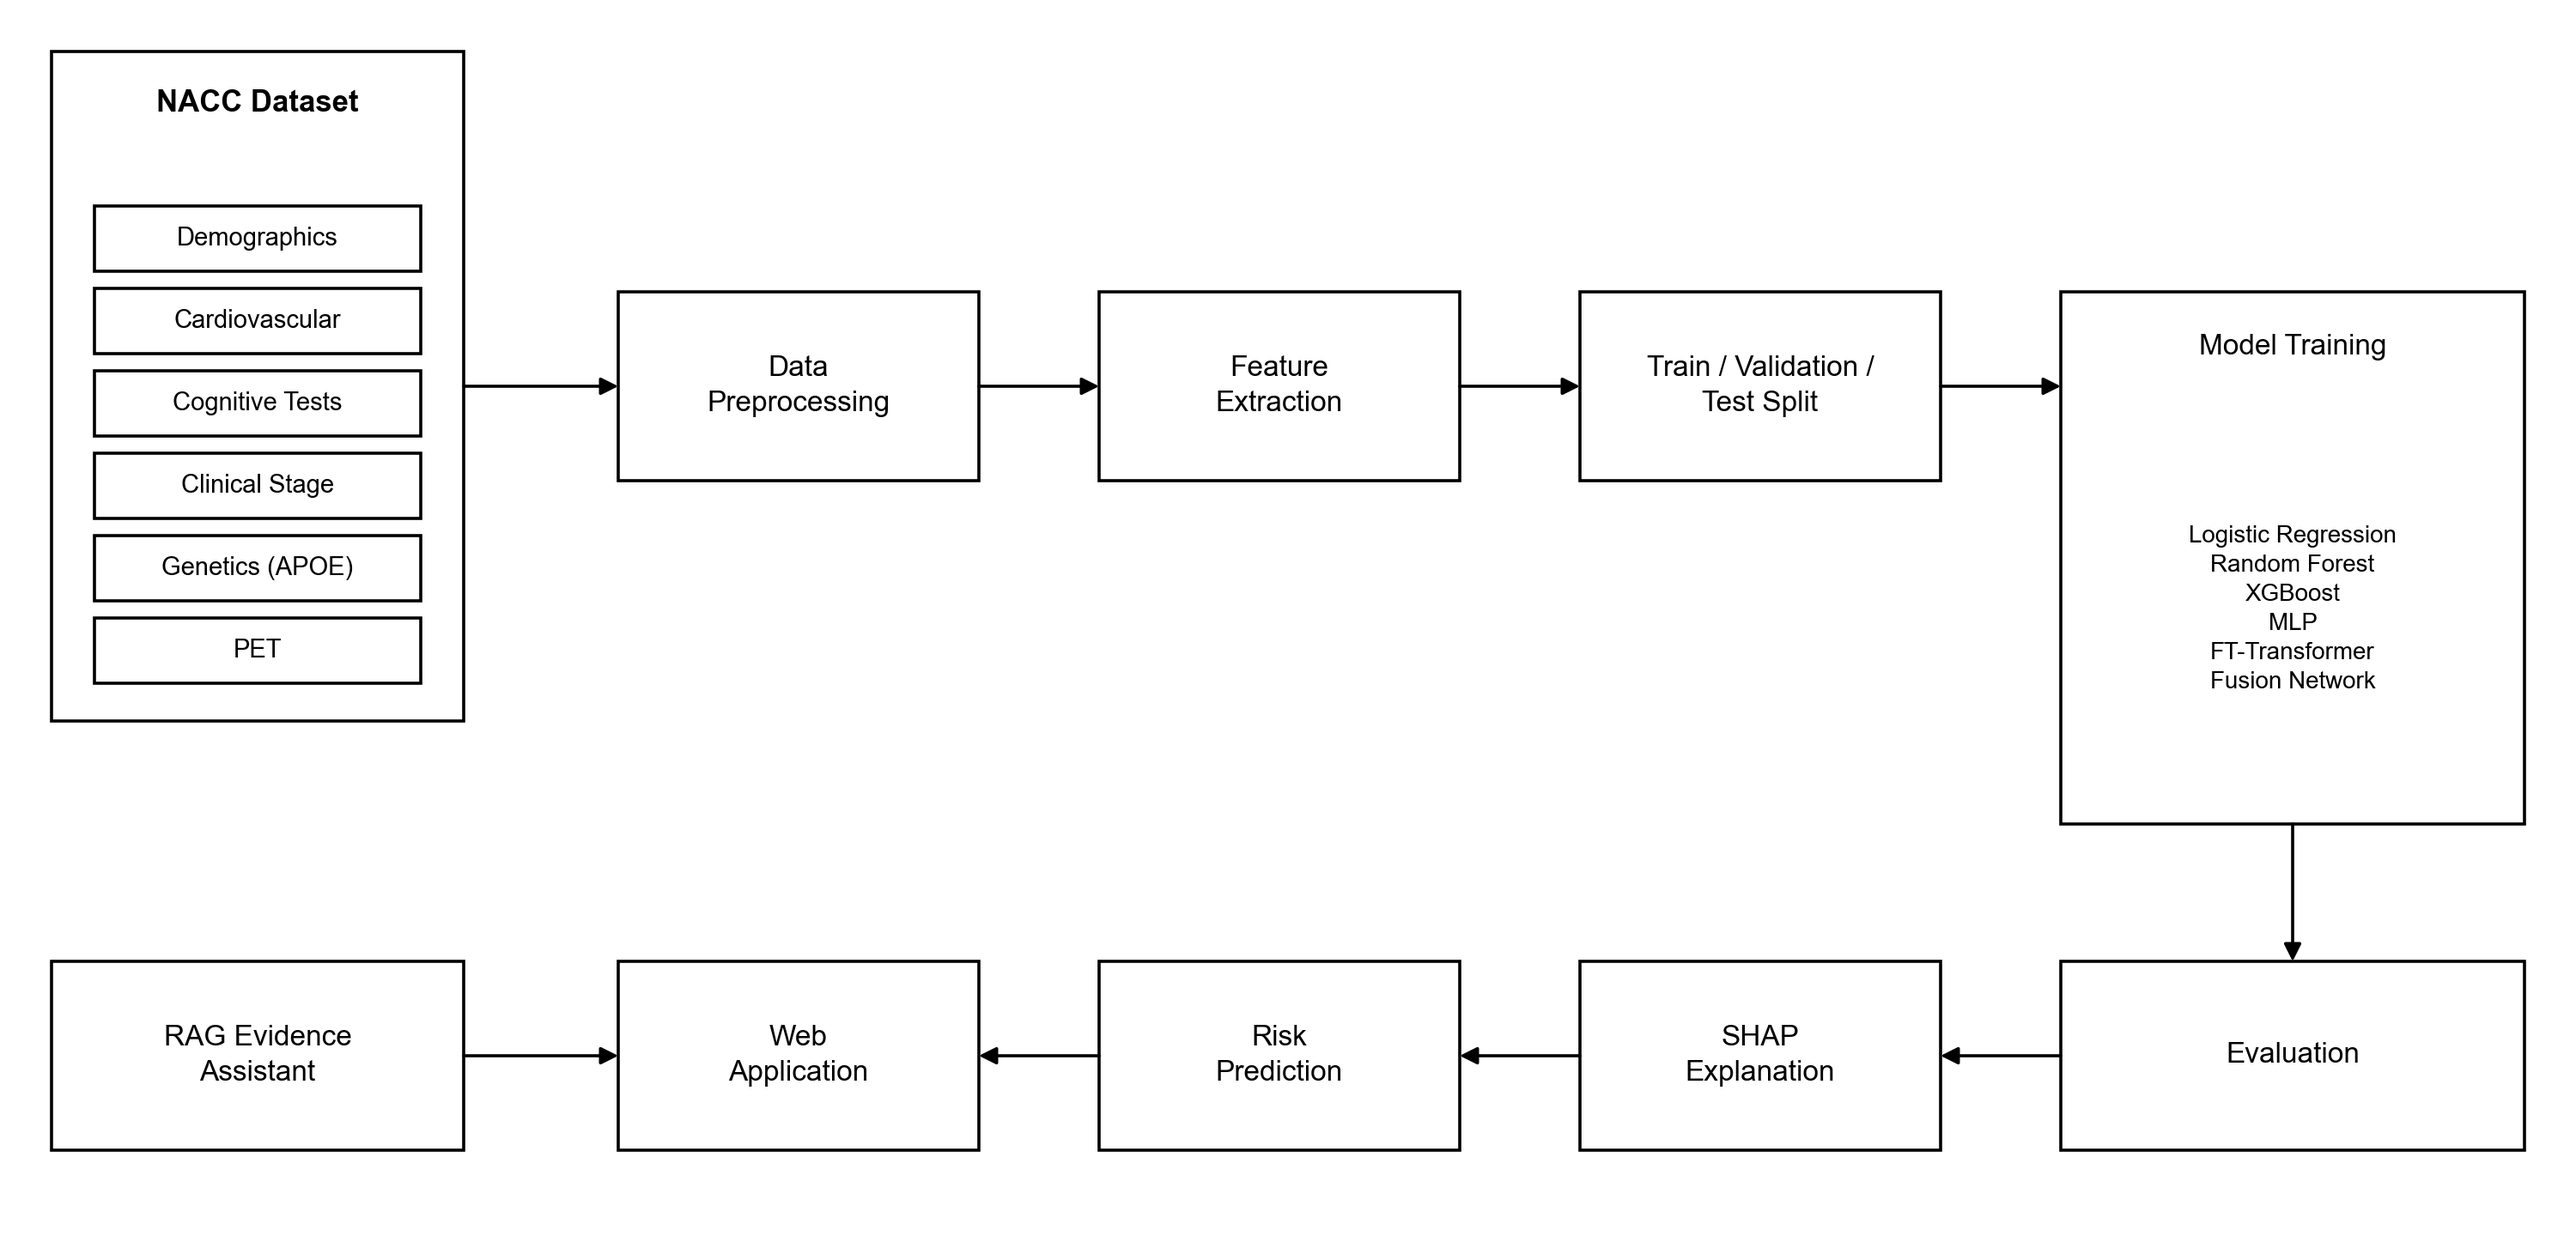
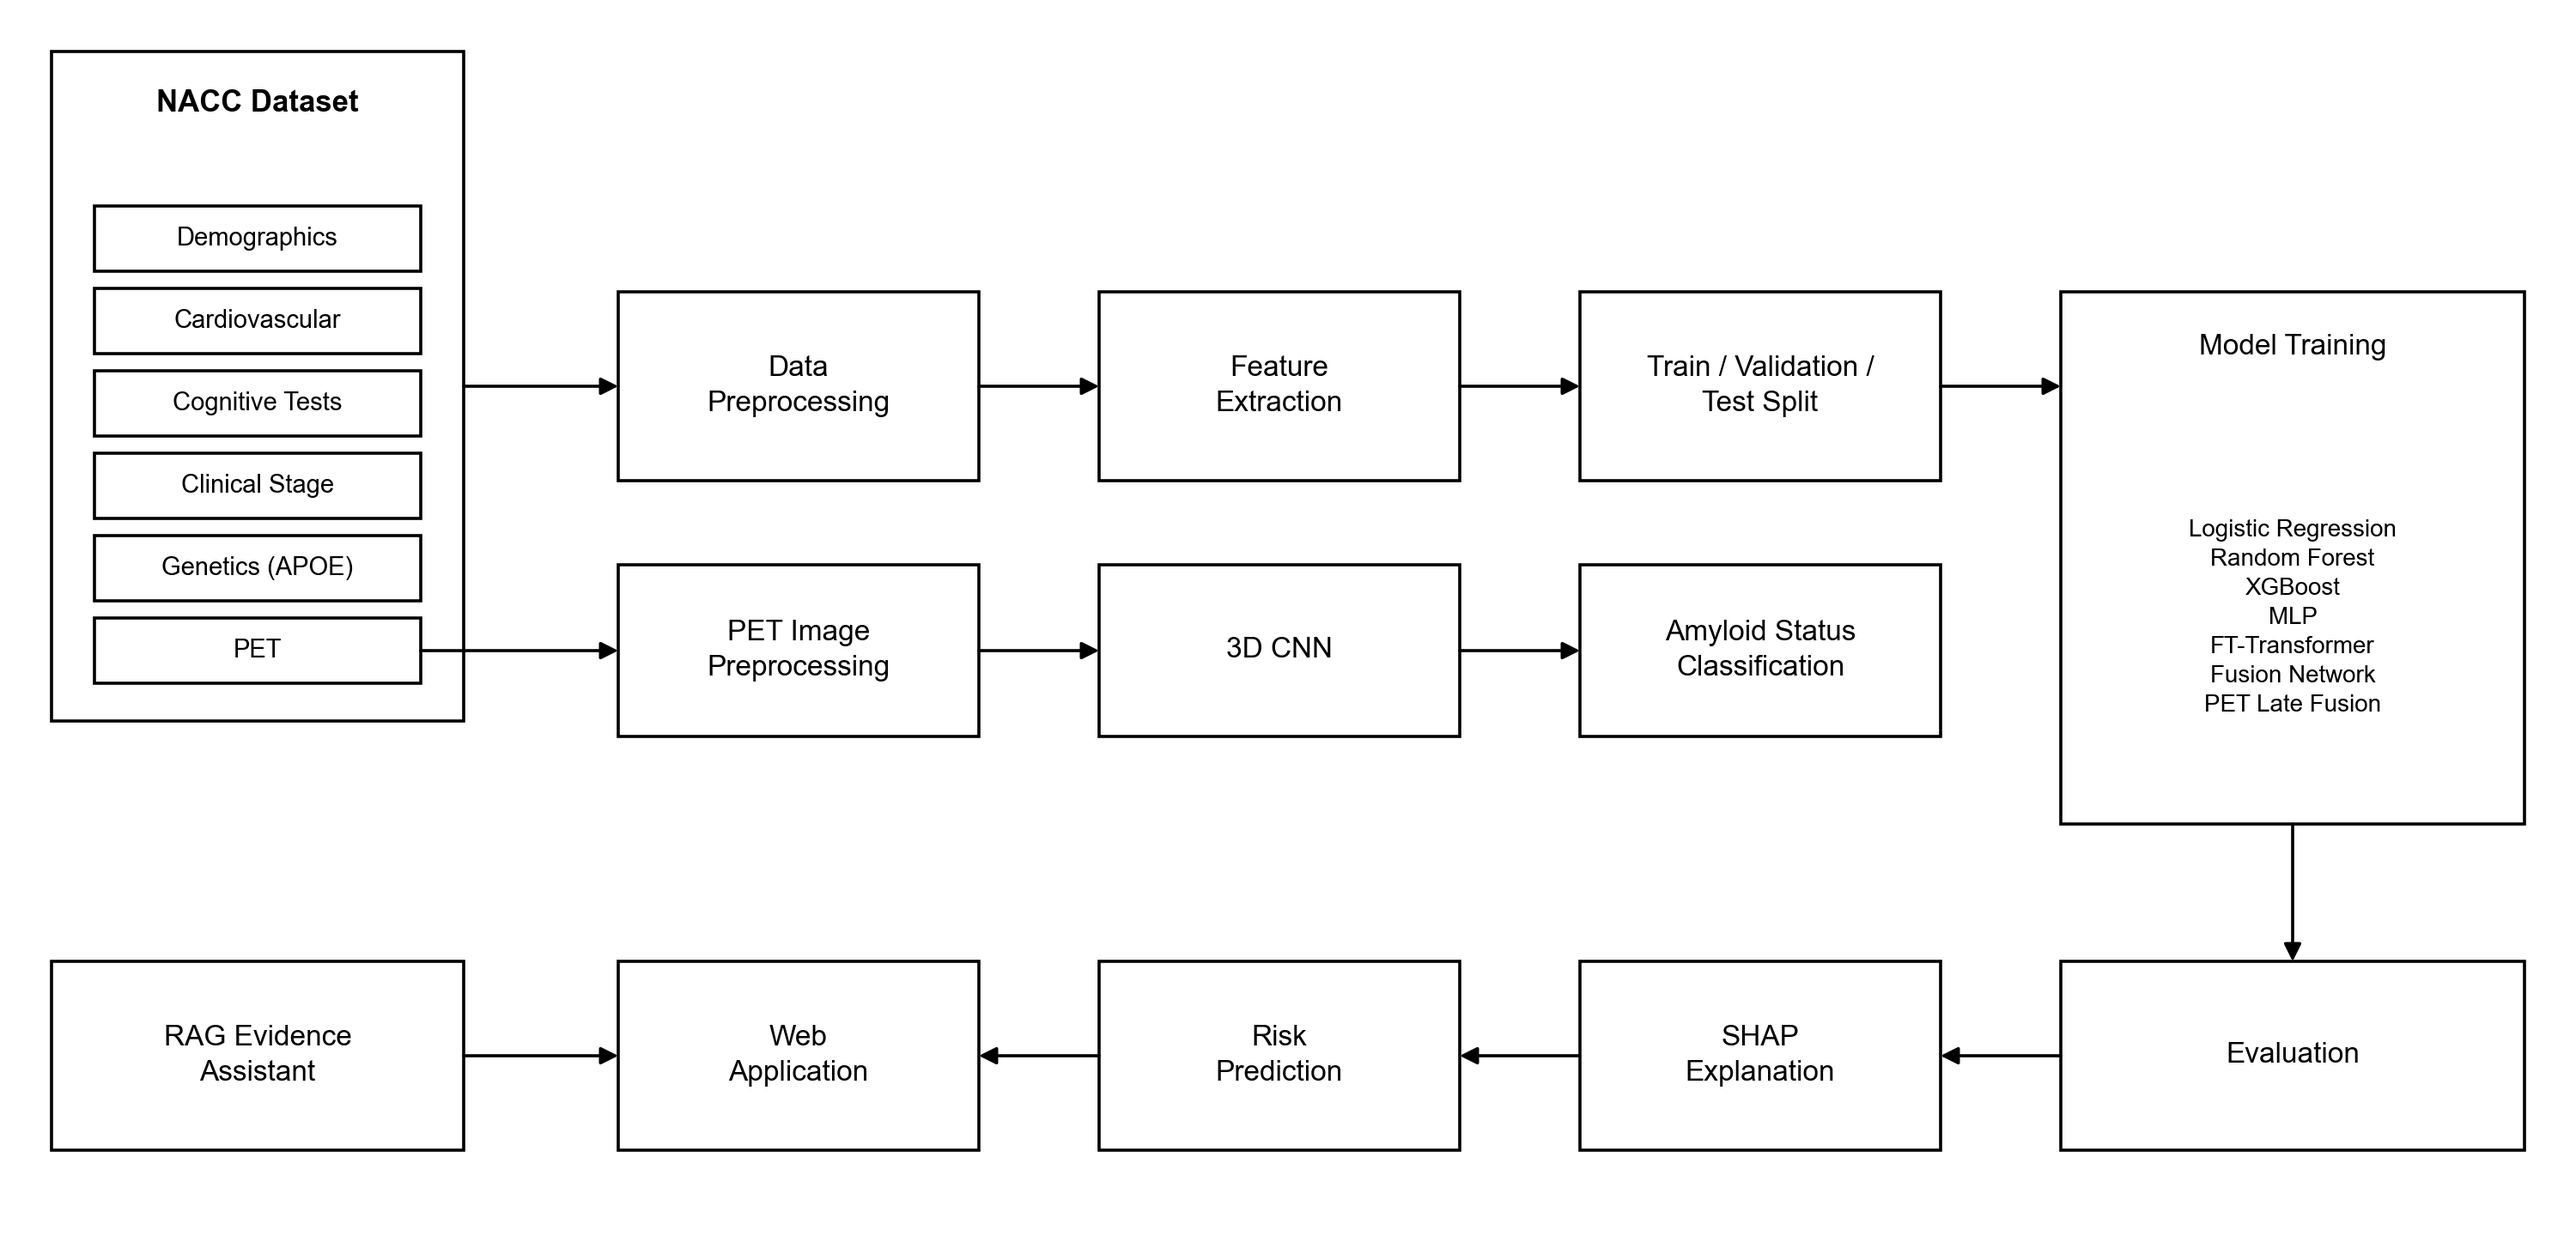
Block diagram: PET image branch with the 3D CNN, PET late fusion in the model list

diff --git a/thesis/make_block_diagram.py b/thesis/make_block_diagram.py
@@ -50,8 +50,18 @@ for a, b in zip(xs[:-1], xs[1:]):
 # model training, with the models inside
 ax.add_patch(Rectangle((120, 24), 27, RY + RH - 24, fc="white", ec="black", lw=1.3))
 ax.text(133.5, RY + RH - 3.2, "Model Training", ha="center", va="center", fontsize=12)
-ax.text(133.5, 36.5, "Logistic Regression\nRandom Forest\nXGBoost\nMLP\nFT-Transformer\nFusion Network",
+ax.text(133.5, 36.0, "Logistic Regression\nRandom Forest\nXGBoost\nMLP\nFT-Transformer\nFusion Network\nPET Late Fusion",
         ha="center", va="center", fontsize=10, linespacing=1.4)
+
+# PET image branch
+pet_y = 60 - 3.8 - 5 * 4.8 + 1.9          # centre of the PET input box
+PH = 10
+pet = [(36, "PET Image\nPreprocessing"), (64, "3D CNN"), (92, "Amyloid Status\nClassification")]
+for x, t in pet:
+    box(x, pet_y - PH / 2, BW, PH, t)
+arrow(24.5, pet_y, 36, pet_y)
+for (xa, _), (xb, _) in zip(pet[:-1], pet[1:]):
+    arrow(xa + BW, pet_y, xb, pet_y)
 
 # row 2 (right to left)
 R2Y = 5
